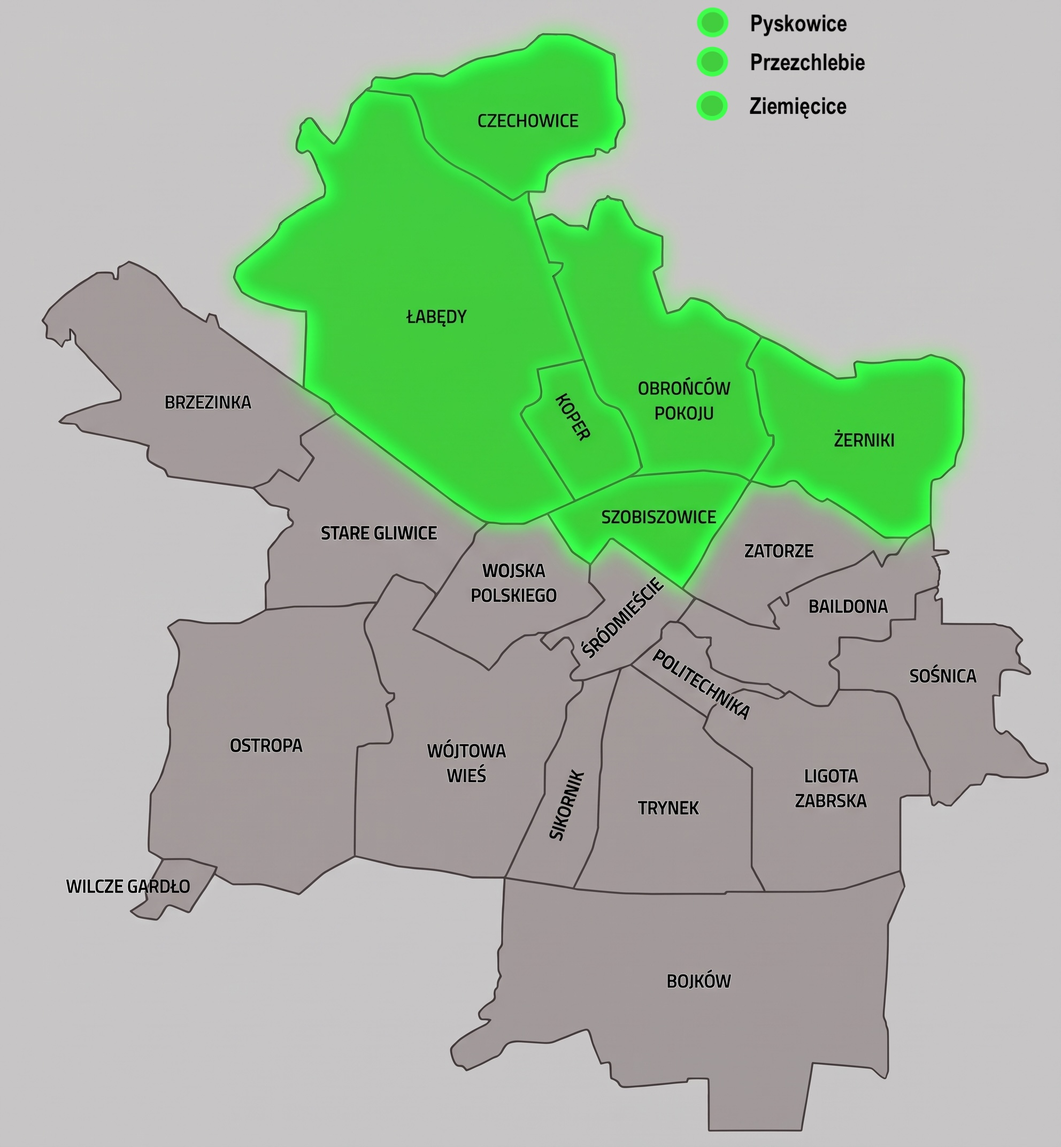
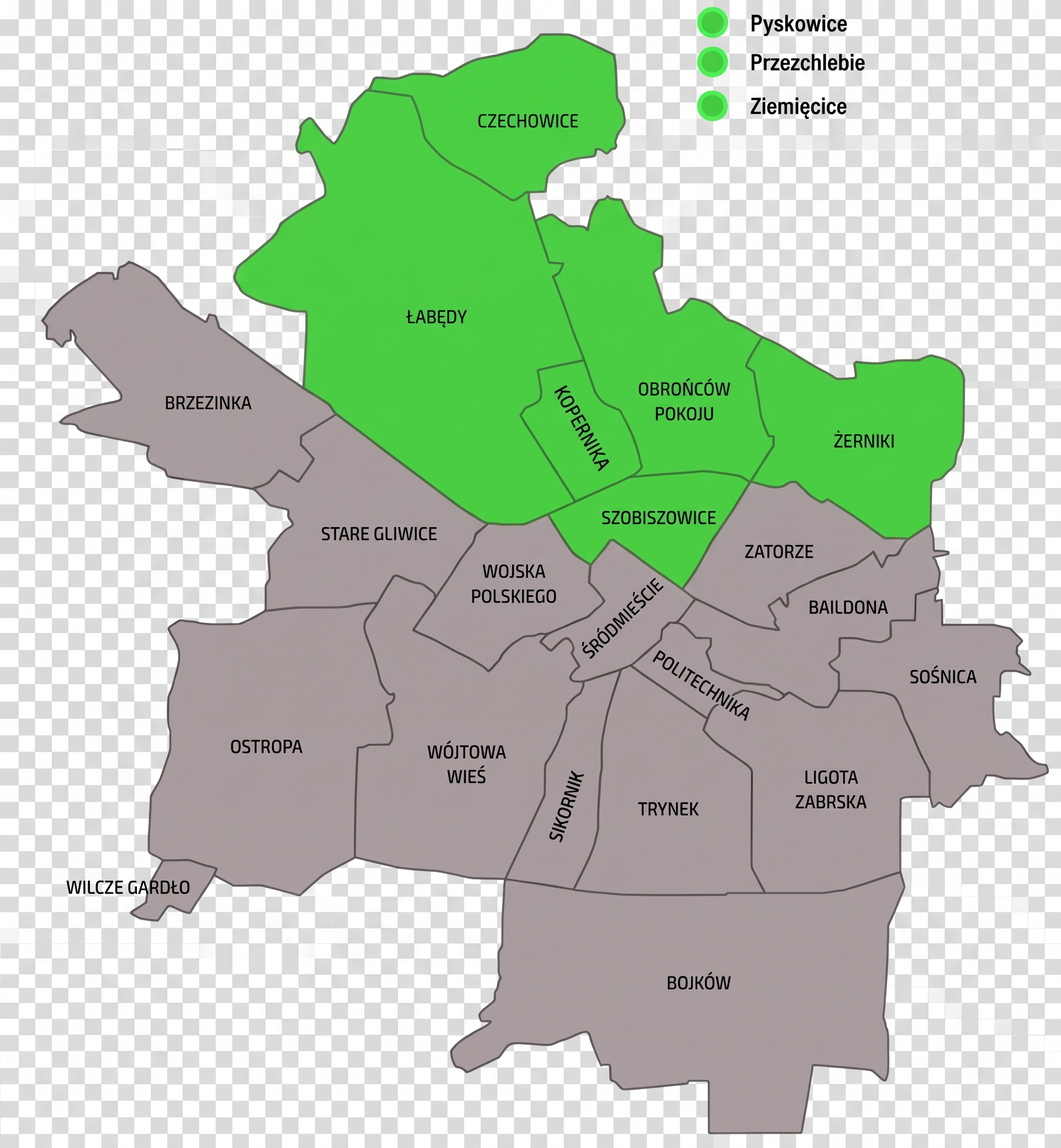
Kopernika instead of koper

diff --git a/index.html b/index.html
@@ -203,8 +203,9 @@
                                     <li class="address">Odbiór osobisty: Zygmuntowska 9, 44-113 Gliwice</li>
                                     <li class="delivery">
                                         <strong>Dowozy</strong><br>
-                                        <strong>Osiedla:</strong> Czechowice, Łabędy, Koper, Szobiszowice, Obrońców Pokoju, Żerniki<br>
-                                        <strong>Miejscowości:</strong> Pyskowice, Przezchlebie, Ziemięcice
+                                        <strong>Osiedla:</strong> Łabędy, Kopernika, Szobiszowice, Żerniki, Obrońców Pokoju, Czechowice<br>
+                                        <strong>Miejscowości:</strong> Pyskowice, Przezchlebie, Ziemięcice<br>
+                                        <strong>Powyżej 5 km, minimalna wartość zamówienia to 80 zł)</strong>
                                     </li>
                                     <li class="email">
                                         <strong>Jak liczymy koszt dowozu?</strong><br>
